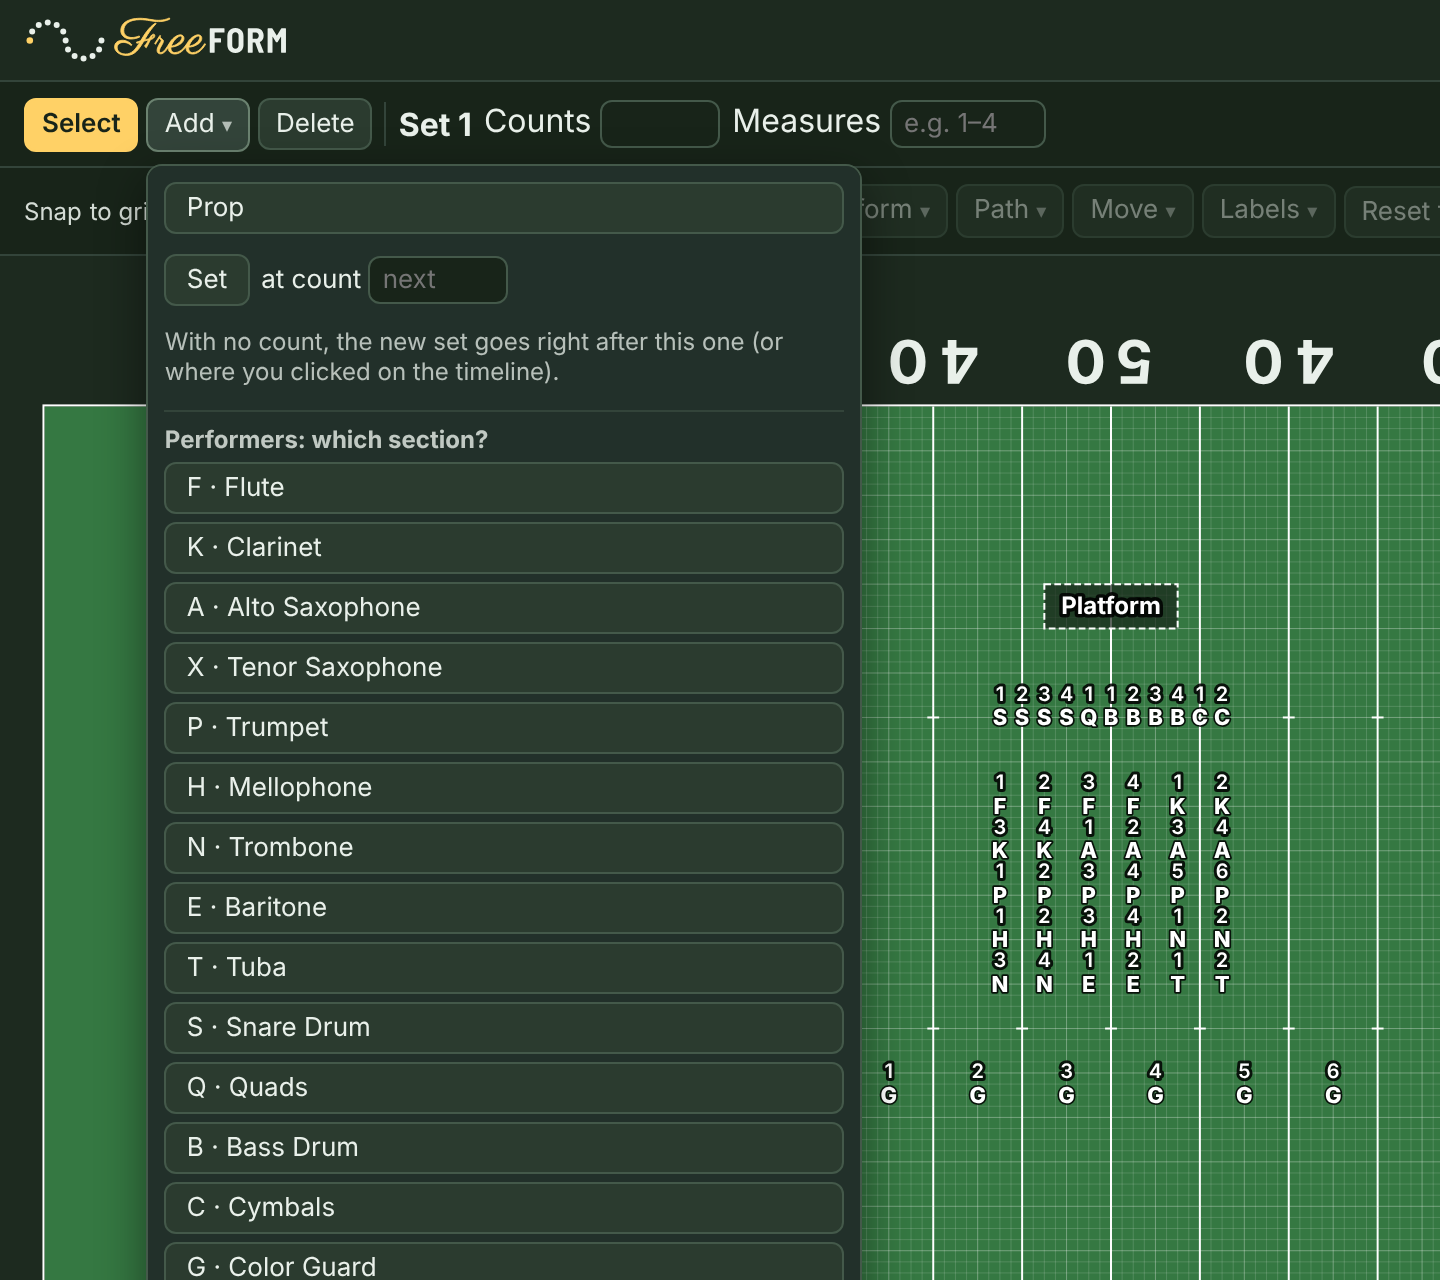
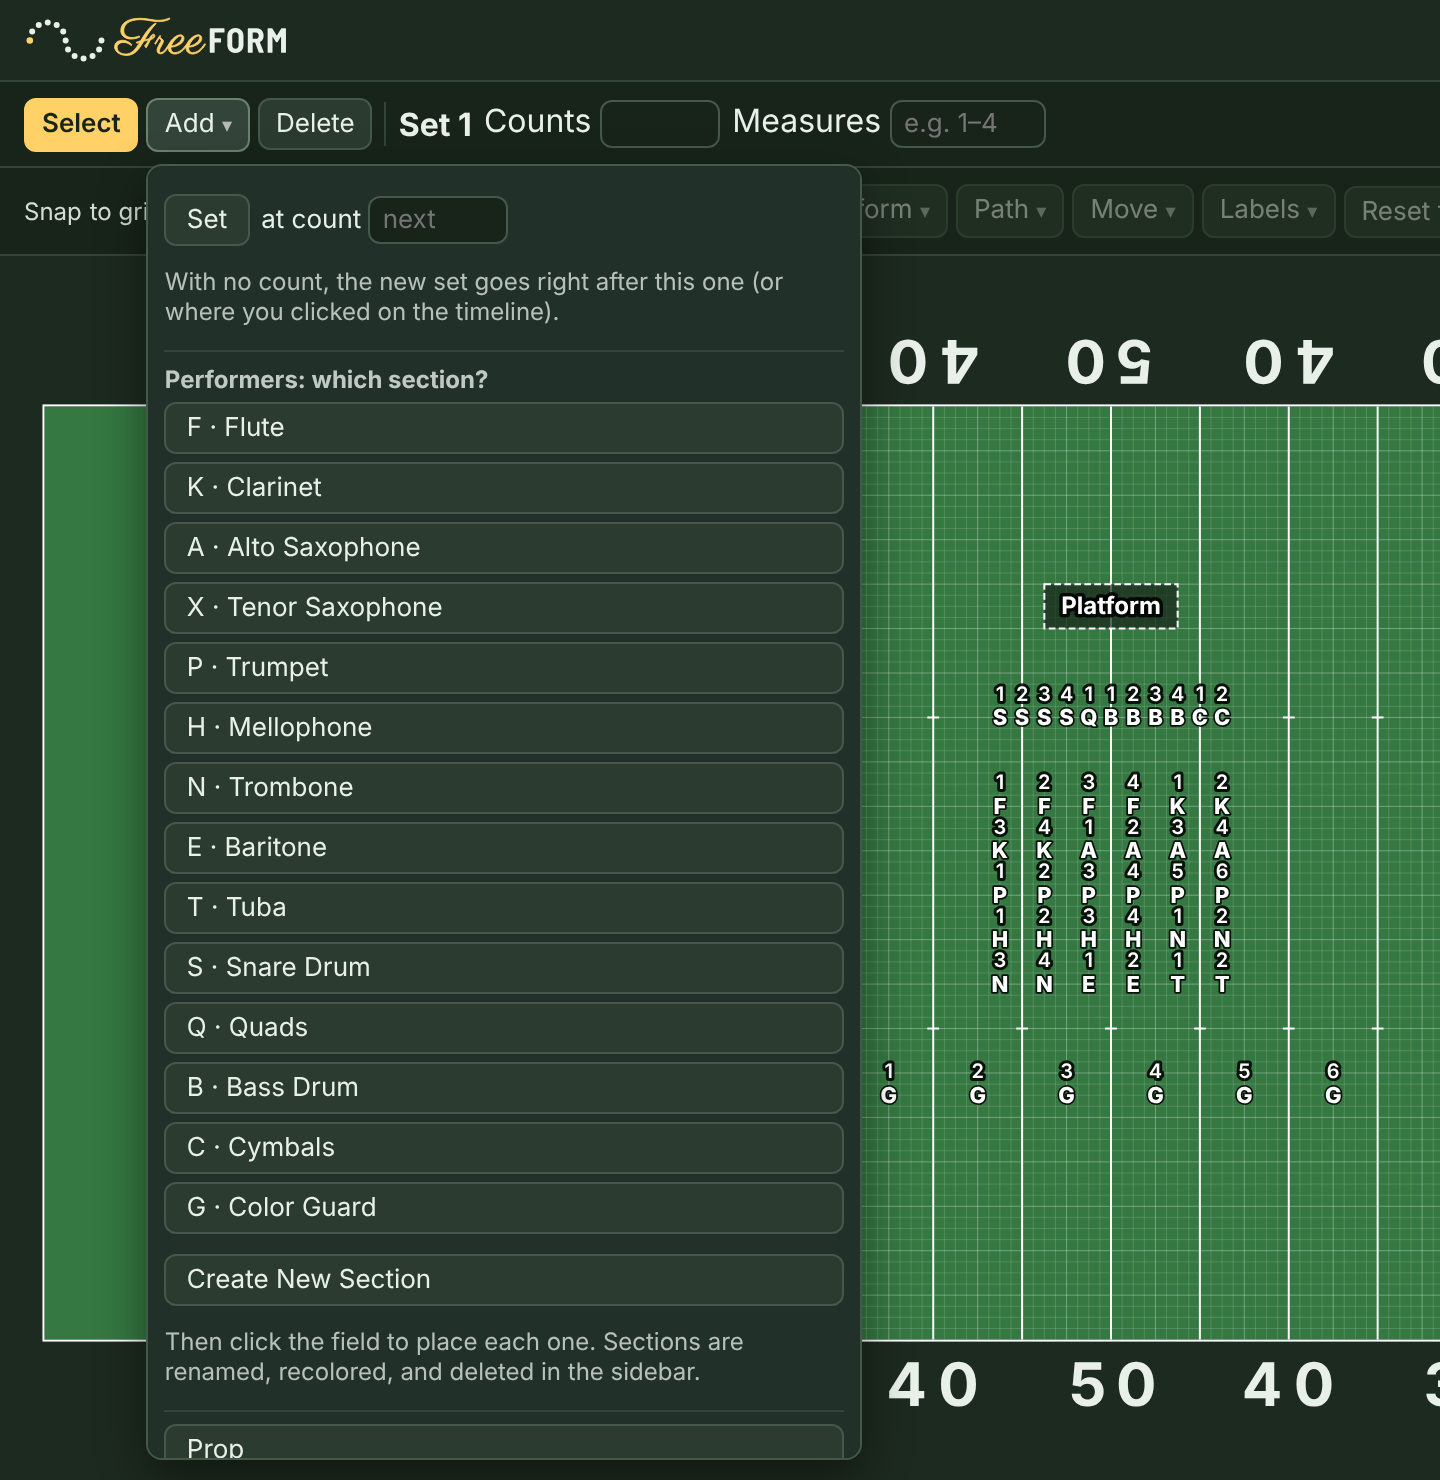
Add menu: Prop at the bottom, new-section boxes behind Create New Section
Claude-Session: https://claude.ai/code/session_012ak5ZTJMUhdPSh9n22CtEG

diff --git a/src/ui/Toolbar.tsx b/src/ui/Toolbar.tsx
@@ -470,6 +470,7 @@ function MovePanel({ show, setShow, onSet, ids, setSelected }: ToolbarProps & { 
 
 /** A new section, made in the Add Performer(s) menu: name and letter, then it's the section being placed. */
 function NewSection({ show, setShow, setSection, setTool, close }: ToolbarProps & { close: () => void }) {
+  const [open, setOpen] = useState(false); // the name and letter boxes only after Create New Section (Jason)
   const [name, setName] = useState(''), [letter, setLetter] = useState('');
   const taken = show.sections.some((s) => s.letter.trim().toUpperCase() === letter.trim().toUpperCase());
   const add = () => {
@@ -478,11 +479,12 @@ function NewSection({ show, setShow, setSection, setTool, close }: ToolbarProps 
     setShow((sh) => ({ ...sh, sections: [...sh.sections, { id, name: name.trim(), letter: letter.trim() }] }));
     setSection(id); setTool('add'); close();
   };
+  if (!open) return <button onClick={() => setOpen(true)} style={{ marginTop: 6 }}>Create New Section</button>;
   return (
     <>
       <strong style={{ fontSize: 12, opacity: 0.8, marginTop: 6 }}>New section</strong>
       <div style={{ ...row, marginTop: 0 }}>
-        <input aria-label="New section's name" placeholder="Name (Drum Major)" value={name} maxLength={60} style={{ flex: 1, minWidth: 110 }}
+        <input aria-label="New section's name" placeholder="Name (Drum Major)" value={name} autoFocus maxLength={60} style={{ flex: 1, minWidth: 110 }}
           onChange={(e) => setName(e.target.value)} onKeyDown={(e) => { if (e.key === 'Enter') add(); }} />
         <input aria-label="New section's letter" placeholder="Letter" value={letter} maxLength={3} style={{ width: 56, textAlign: 'center' }}
           onChange={(e) => setLetter(e.target.value)} onKeyDown={(e) => { if (e.key === 'Enter') add(); }} />
@@ -504,7 +506,6 @@ function AddPanel(p: ToolbarProps & { close: () => void }) {
     setShow(() => r.show); p.setSelected(new Set()); p.setSelectedMark(null); p.setSelectedProp(r.id); p.setTool('select'); p.showSidebar(); close();
   };
   return <>
-    <button onClick={prop} disabled={props.length >= MAX_PROPS} title="An 8 by 8 step square in the middle of the field: drag it into place, and size it in the sidebar">Prop</button>
     <div style={row}>
       <button onClick={addSet} title="A new set after this one, or at the count you type">Set</button>
       <label>at count <NumberField min={1} integer aria-label="At count" value={at ?? ''} placeholder="next" style={{ width: 56 }}
@@ -519,6 +520,8 @@ function AddPanel(p: ToolbarProps & { close: () => void }) {
     ))}
     <NewSection {...p} close={close} />
     <p style={help}>Then click the field to place each one. Sections are renamed, recolored, and deleted in the sidebar.</p>
+    <hr style={{ width: '100%', border: 0, borderTop: '1px solid var(--line)', margin: '8px 0 2px' }} />
+    <button onClick={prop} disabled={props.length >= MAX_PROPS} title="An 8 by 8 step square in the middle of the field: drag it into place, and size it in the sidebar">Prop</button>
   </>;
 }
 

diff --git a/DECISIONS.md b/DECISIONS.md
@@ -1201,3 +1201,7 @@ Each entry: timestamp, who decided, context, options considered, decision.
   - **Prop** makes an 8 by 8 step square (not round) in the middle of the field, picks it, switches to Select, and opens the sidebar so its size is in reach. The sidebar's **+ Prop** makes the same square.
   - **Delete** acts on what's selected, in this order: performers (asks first), the picked prop, the picked markup. With nothing selected, it deletes the set you're on after asking, and is grayed out when the show has one set. Its tooltip names what it will delete. The Delete key still never deletes a set, so a stray key press can't lose one.
   - The top bar keeps the logo, the pan and zoom hint, and the light/dark button.
+
+## 2026-11-06 15:30 EST — Add menu order, and Create New Section
+- **Who:** Jason Tiller.
+- **Decision:** In **Add ▾**, **Prop** moves to the bottom: Set first, then the sections, then Prop. The new-section name and letter boxes stay hidden until you click **Create New Section**, so the menu is shorter.

diff --git a/docs/HOW-TO.md b/docs/HOW-TO.md
@@ -90,11 +90,11 @@ If your program always uses the same sections, set them up once and choose **Sta
 
 ## Add performers
 
-![The Add menu: a prop, a set, or a section's performers](img/add-performers.png)
+![The Add menu: a set, a section's performers, or a prop](img/add-performers.png)
 
 **New** drops you here: the field is blank, adding performers is on, and the **Add** menu is open.
 
-1. Click **Add** and pick a section under **Performers**. For a section that isn't there yet (a drum major, a soloist), type its name and letter under **New section** and click **Add**: it's made and picked in one step.
+1. Click **Add** and pick a section under **Performers**. For a section that isn't there yet (a drum major, a soloist), click **Create New Section**, type its name and letter, and click **Add**: it's made and picked in one step.
 2. Click the field wherever you want each one. They're numbered in order: P1, P2, P3, and so on.
 3. Press **V** or Esc (or click **Select**) when you're done.
 
